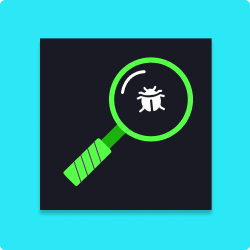
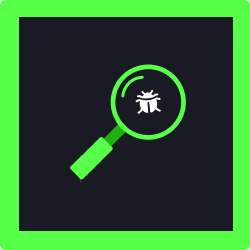
Adicionando emblemas

diff --git a/src/App.css b/src/App.css
@@ -2,11 +2,28 @@
 
 :root {
   --custom-primary: #3d444c;
-  --custom-secondary: #505a63;
+  --custom-secondary: #8a9299;
+
   --custom-primary-font: #f3f3f3;
-  --custom-secondary-font: #1f2428;
-  --custom-highlight-primary: #1f2428;
-  --custom-highlight-secondary: #098698;
+  --custom-secondary-font: #191A23;
+
+  --custom-highlight-primary: #191A23;
+  --custom-highlight-secondary: #58FF49;
+
+}
+
+
+
+.dark-font{
+  color: var(--custom-secondary-font);
+}
+.light-font{
+  color: var(--custom-primary-font);
+}
+
+.custom-bg-green{
+  background-color: var(--custom-highlight-secondary) !important;
+  color: var(--custom-primary-font);
 }
 
 * {
@@ -19,9 +36,6 @@
   color: var(--custom-primary-font);
 }
 
-.custom-color-reward {
-  color: #b9ff66;
-}
 .menu {
   background-color: var(--custom-highlight-primary);
   display: flex;
@@ -34,13 +48,19 @@
   border: none;
 }
 
+.accordion-button:focus {
+  outline: none;
+  box-shadow: none;
+}
+
 .accordion-button:not(.collapsed) {
   background-color: var(--custom-secondary);
   color: rgb(245, 56, 56);
 }
 
 .accordion-body {
-  background-color: var(--custom-secondary);
+  background-color: var(--custom-highlight-primary);
+  border-radius: 0 0 5px 5px;
   color: var(--custom-primary-font);
 }
 
@@ -51,7 +71,7 @@
 }
 
 .container {
-  padding: 3.5rem 10px;
+  padding: 3.5rem 10px 10px 0;
 }
 
 .custom-progress-bar {
@@ -86,7 +106,7 @@
 }
 
 .box {
-  background-color: var(--custom-secondary);
+  background-color: var(--custom-highlight-primary);
   border-radius: 5px;
   padding: 10px;
   margin: 10px 0;
@@ -102,7 +122,7 @@
 }
 
 ::-webkit-scrollbar-thumb {
-  background-color: var(--custom-secondary);
+  background-color: var(--custom-highlight-primary);
   border-radius: 5px;
 }
 

diff --git a/src/components/UserInfo.jsx b/src/components/UserInfo.jsx
@@ -7,12 +7,13 @@ function UserInfo() {
         <div className="accordion-item">
           <h2 className="accordion-header" id="headingOne">
             <button
-              className="accordion-button"
+              className="accordion-button bg-light"
               type="button"
               data-bs-toggle="collapse"
               data-bs-target="#collapseOne"
               aria-expanded="false"
               aria-controls="collapseOne"
+              style={{ outline: "none", boxShadow: "none" }}
             >
               Informações da conta
             </button>
@@ -23,7 +24,9 @@ function UserInfo() {
             aria-labelledby="headingOne"
             data-bs-parent="#accordionExample"
           >
-            <div className="accordion-body">
+            <div
+              className="accordion-body"
+            >
               <label htmlFor="exampleFormControlInput1" className="form-label">
                 Endereço de email
               </label>
@@ -76,7 +79,6 @@ function UserInfo() {
                   aria-label="Username"
                 />
               </div>
-
             </div>
           </div>
         </div>

diff --git a/src/pages/Profile.jsx b/src/pages/Profile.jsx
@@ -51,7 +51,7 @@ function Profile() {
           <div className="input-group">
             <input
               type="text"
-              className="form-control"
+              className="form-control bg-light"
               placeholder="XK4LM23K"
               aria-label="Username"
               disabled
@@ -68,7 +68,7 @@ function Profile() {
       <div className="box">
         <div className="row mb-3">
           <div className="col text-center">
-            <button className="btn btn-success w-100">Salvar Alterações</button>
+            <button className="btn custom-bg-green w-100">Salvar Alterações</button>
           </div>
         </div>
         <div className="row">

diff --git a/src/components/Points.jsx b/src/components/Points.jsx
@@ -5,12 +5,12 @@ function Points() {
     <div className="box">
         <div className='row'>
             <div className="col-6">
-            <label htmlFor="exampleFormControlInput1" className="form-label custom-color-reward">
+            <label htmlFor="exampleFormControlInput1" className="form-label light-font">
             Pontos
           </label>
             </div>
             <div className="col-6">
-            <label htmlFor="exampleFormControlInput1" className="form-label custom-color-reward">
+            <label htmlFor="exampleFormControlInput1" className="form-label light-font">
             Emblemas Únicos
           </label>
             </div>

diff --git a/src/components/EmblemModal.jsx b/src/components/EmblemModal.jsx
@@ -11,9 +11,9 @@ function EmblemModal({ id_modal, modal_id, updateEmblem }) {
       active: true,
     },
     {
-      name: "Beta Tester",
+      name: "Influenciador",
       descricao: "teste beta",
-      image_path: "./beta.png",
+      image_path: "./influencer.png",
       creation_date: "01/01/2025",
       active: true,
     },
@@ -22,7 +22,7 @@ function EmblemModal({ id_modal, modal_id, updateEmblem }) {
       descricao: "Um emblema para aqueles que encontraram bugs na nossa plataforma.",
       image_path: "./bug_hunter.png",
       creation_date: "12/09/2024",
-      active: true,
+      active: false,
     },
   ];
 

diff --git a/src/components/UserEmblems.jsx b/src/components/UserEmblems.jsx
@@ -3,7 +3,7 @@ import EmblemModal from "./EmblemModal";
 
 function UserEmblems() {
   const [selectedEmblem, setSelectedEmblems] = useState([
-    { id: 0, emblem: "./alpha.png" },
+    { id: 0, emblem: "./influencer.png" },
     { id: 1, emblem: "./bug_hunter.png" },
     { id: 2, emblem: "./beta.png" },
   ]);
